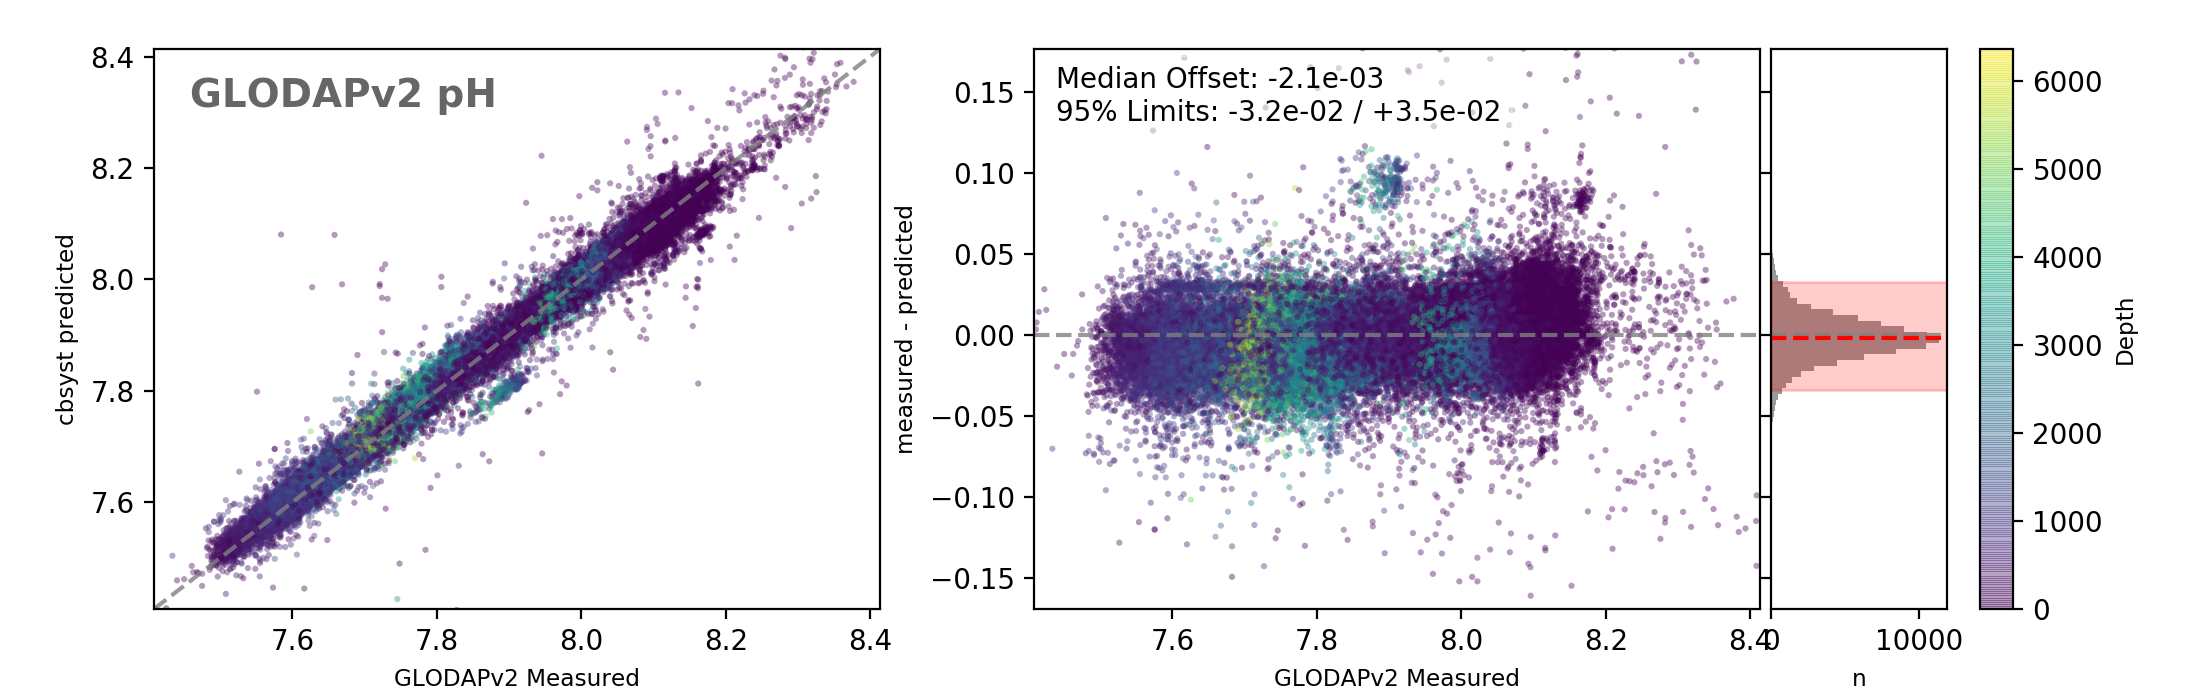
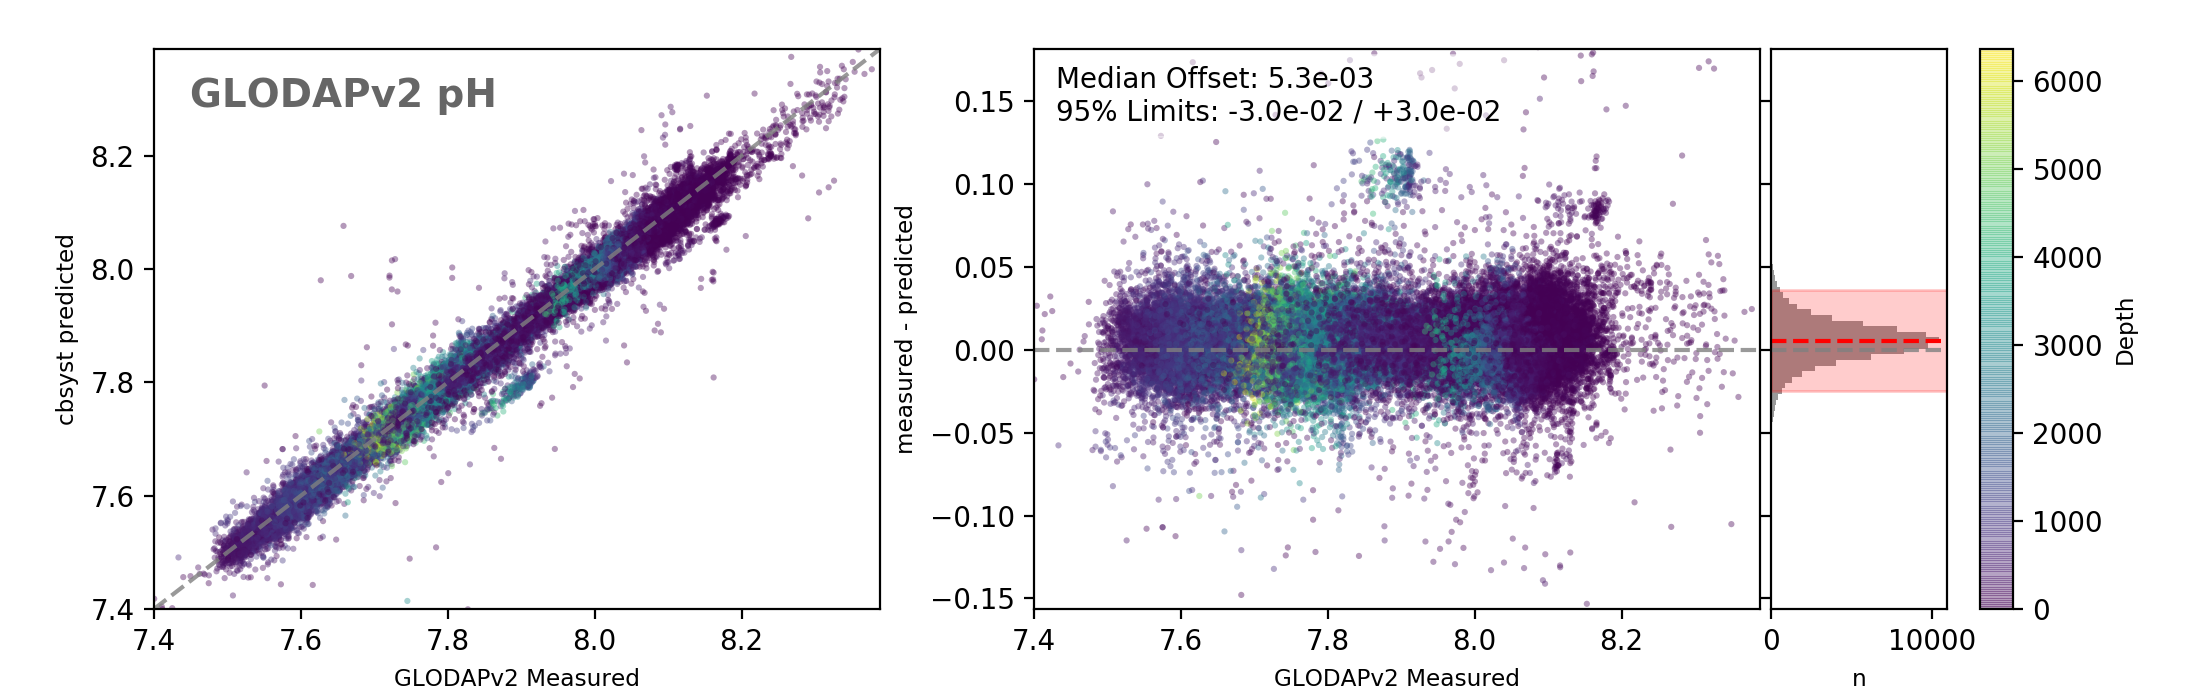
GLODAP Comparison update for nutrient alk

diff --git a/cbsyst/test_data/GLODAP_data/plot_GLODAPv2_comparison.py b/cbsyst/test_data/GLODAP_data/plot_GLODAPv2_comparison.py
@@ -21,24 +21,25 @@ def GLODAPv2_comparison(figdir='.'):
     print('Importing GLODAPv2 Data...')
     gd = pd.read_csv('./GLODAPv2_pH_DIC_ALK_subset.csv')
     gd.dropna(subset=['phtsinsitutp', 'temperature',
-                      'salinity', 'tco2', 'talk', 'pressure'], inplace=True)
+                      'salinity', 'tco2', 'talk',
+                      'pressure', 'phosphate', 'silicate'], inplace=True)
     gd.pressure /= 10  # convert pressure to bar
 
     # Do the work...
     print('Calculating pH from DIC and TA...')
-    cpH = cb.Csys(TA=gd.talk, DIC=gd.tco2, T=gd.temperature, S=gd.salinity, P=gd.pressure)
+    cpH = cb.Csys(TA=gd.talk, DIC=gd.tco2, T=gd.temperature, S=gd.salinity, P=gd.pressure, TP=gd.phosphate, TSi=gd.silicate)
     print('   Making plots...')
     fig, axs = cplot(gd.phtsinsitutp, cpH.pH, 'pH', 'Depth', gd.depth)
     fig.savefig(figdir + '/Figures/pH_comparison.png', dpi=200)
 
     print('Calculating TA from pH and DIC...')
-    cTA = cb.Csys(pH=gd.phtsinsitutp, DIC=gd.tco2, T=gd.temperature, S=gd.salinity, P=gd.pressure)
+    cTA = cb.Csys(pH=gd.phtsinsitutp, DIC=gd.tco2, T=gd.temperature, S=gd.salinity, P=gd.pressure, TP=gd.phosphate, TSi=gd.silicate)
     print('   Making plots...')
     fig, ax = cplot(gd.talk, cTA.TA, 'Alk', 'Depth', gd.depth)
     fig.savefig('Figures/TA_comparison.png', dpi=200)
 
     print('Calculating DIC from pH and TA...')
-    cDIC = cb.Csys(pH=gd.phtsinsitutp, TA=gd.talk, T=gd.temperature, S=gd.salinity, P=gd.pressure)
+    cDIC = cb.Csys(pH=gd.phtsinsitutp, TA=gd.talk, T=gd.temperature, S=gd.salinity, P=gd.pressure, TP=gd.phosphate, TSi=gd.silicate)
     print('   Making plots...')
     fig, ax = cplot(gd.tco2, cDIC.DIC, 'DIC', 'Depth', gd.depth)
     fig.savefig('Figures/DIC_comparison.png', dpi=200)

diff --git a/README.md b/README.md
@@ -5,7 +5,7 @@
 *Work in progress! Tested against reference data, but results not guaranteed. Use at your own risk.*
 
 ## Still To Do...
-- [ ] [Nutrient alkalinity](https://github.com/oscarbranson/cbsyst/issues/5)
+- [X] [Nutrient alkalinity](https://github.com/oscarbranson/cbsyst/issues/5)
 - [ ] [Different pH scales](https://github.com/oscarbranson/cbsyst/issues/7)
 - [ ] [Separate input / output conditions](https://github.com/oscarbranson/cbsyst/issues/3)
 - [ ] [Ravelle factor reporting](https://github.com/oscarbranson/cbsyst/issues/8)
@@ -41,13 +41,13 @@ The code used to process the raw GLODAPv2 data is available [here](cbsyst/test_d
 Next, calculate the carbonate system from sets of two of the measured carbonate parameters, and compare the calculated third parameter to the measured third parameter (i.e. calculate Alkalinity from pH and DIC, then compared calculated vs. measured Alkalinities). The code for making these comparison plots is [here](cbsyst/test_data/GLODAP_data/plot_GLODAPv2_comparison.py).
 
 ### Results:
-**Predicted pH** (from DIC and Alkalinity) is offset from measured values by -0.0021 (-0.032/+0.035).
+**Predicted pH** (from DIC and Alkalinity) is offset from measured values by -0.0053 (-0.03/+0.03).
 ![Calculated vs Measured pH](cbsyst/test_data/GLODAP_data/Figures/pH_comparison.png)
 
-**Predicted Alkalinity** (from pH and DIC) is offset from measured values by 0.82 (-16/+11) umol/kg.
+**Predicted Alkalinity** (from pH and DIC) is offset from measured values by -2 (-13/+12) umol/kg.
 ![Calculated vs Measured TA](cbsyst/test_data/GLODAP_data/Figures/TA_comparison.png)
 
-**Predicted DIC** (from pH and Alkalinity) is offset from measured values by -0.80 (-11/+15) umol/kg.
+**Predicted DIC** (from pH and Alkalinity) is offset from measured values by 1.9 (-11/+12) umol/kg.
 ![Calculated vs Measured DIC](cbsyst/test_data/GLODAP_data/Figures/DIC_comparison.png)
 
 Reported statistics are median ±95% confidence intervals extracted from the residuals (n = 97,963).
